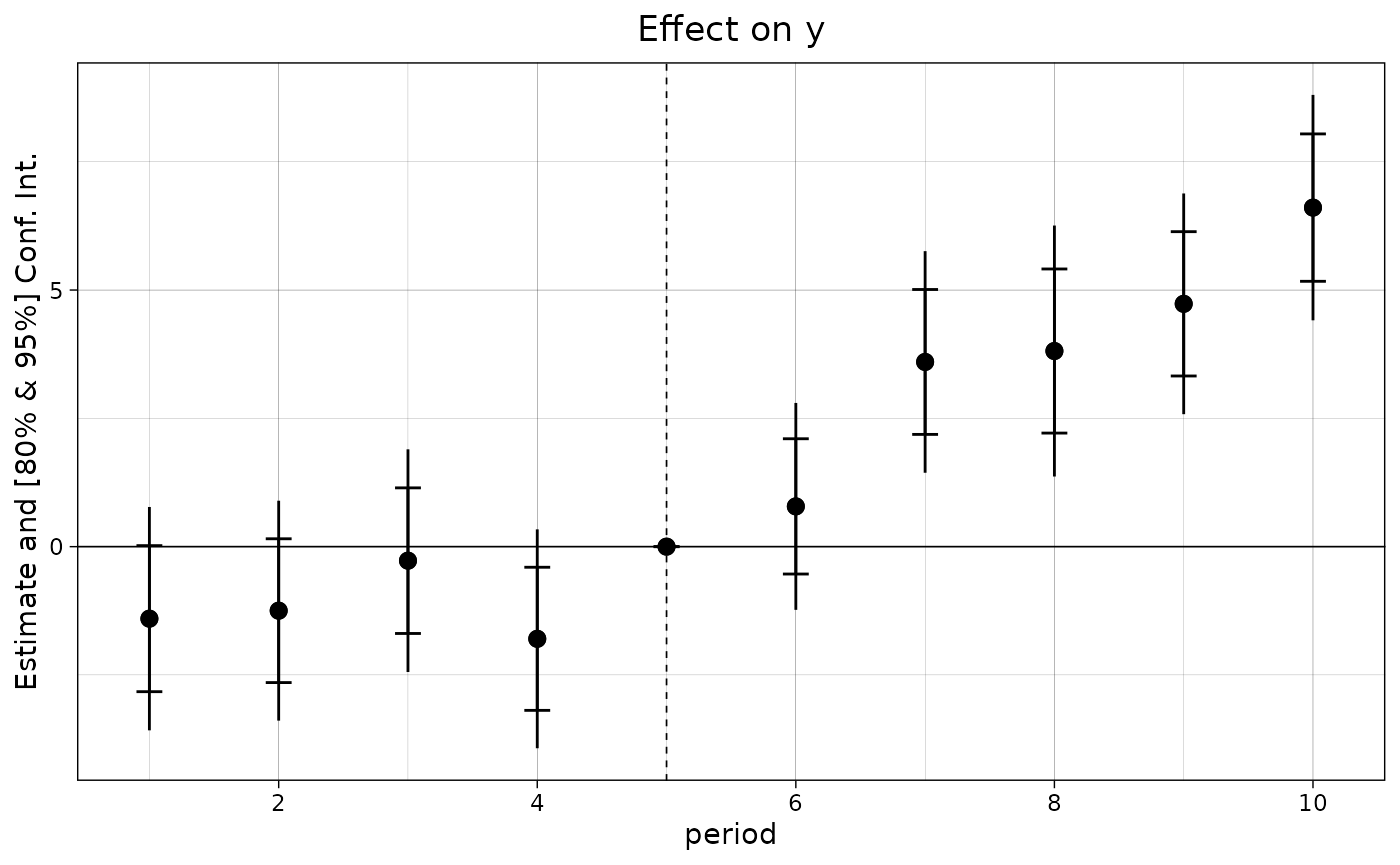
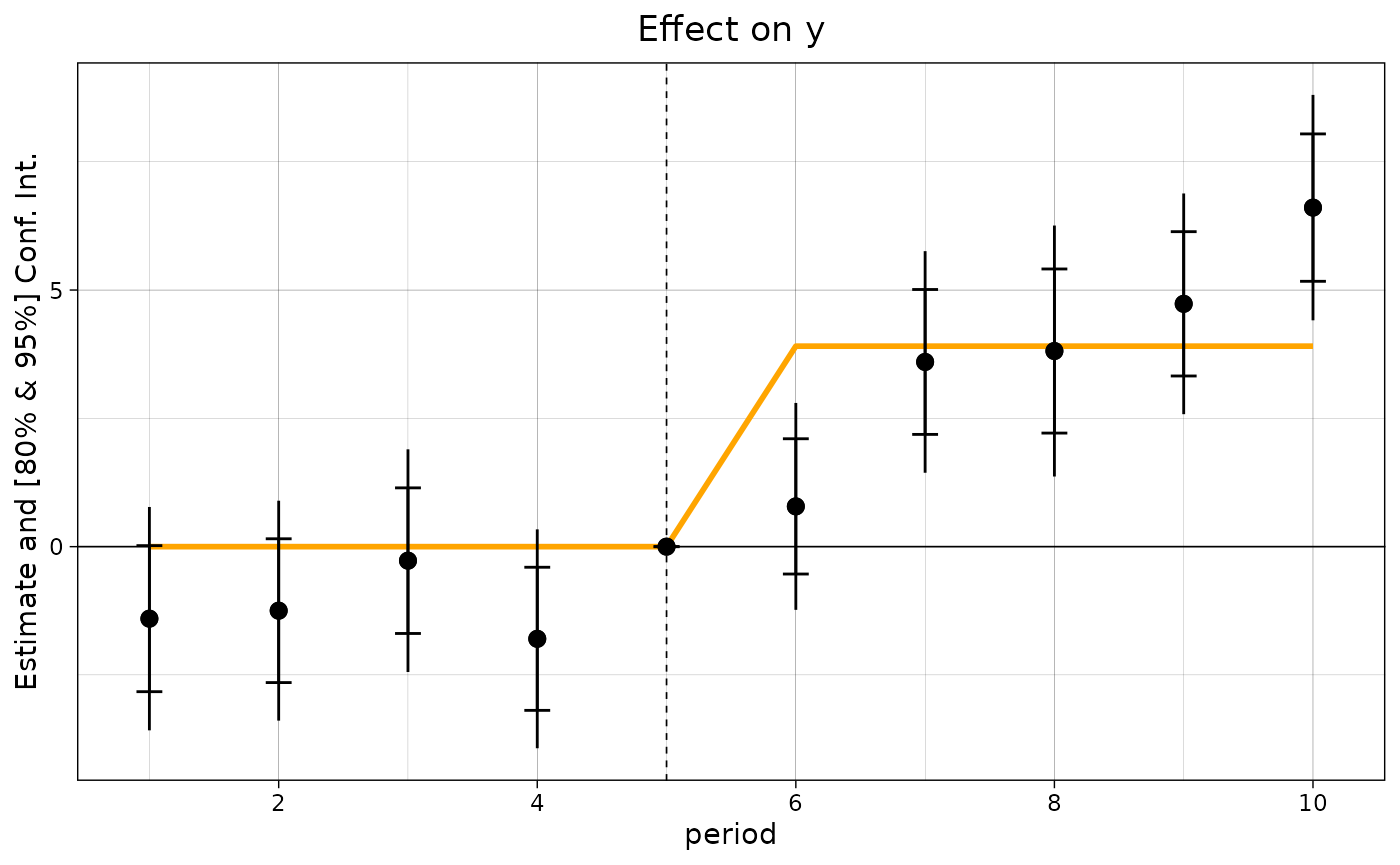
Deploying to gh-pages from @ grantmcdermott/ggiplot@c64c6105181d0d59767b65c5c7b24a04a8f7cb65 🚀

diff --git a/articles/ggiplot.html b/articles/ggiplot.html
@@ -158,7 +158,7 @@ post-treatment effect.</p>
 <div class="sourceCode" id="cb12"><pre class="downlit sourceCode r">
 <code class="sourceCode R"><span><span class="fu"><a href="../reference/ggiplot.html">ggiplot</a></span><span class="op">(</span></span>
 <span>    <span class="va">est_did</span>, ci_level <span class="op">=</span> <span class="fu"><a href="https://rdrr.io/r/base/c.html" class="external-link">c</a></span><span class="op">(</span><span class="fl">.8</span>, <span class="fl">.95</span><span class="op">)</span>,</span>
-<span>    r_eff <span class="op">=</span> <span class="st">"post"</span>, aggr_eff.par <span class="op">=</span> <span class="fu"><a href="https://rdrr.io/r/base/list.html" class="external-link">list</a></span><span class="op">(</span>col <span class="op">=</span> <span class="st">"orange"</span><span class="op">)</span> <span class="co"># default col is grey</span></span>
+<span>    aggr_eff <span class="op">=</span> <span class="st">"post"</span>, aggr_eff.par <span class="op">=</span> <span class="fu"><a href="https://rdrr.io/r/base/list.html" class="external-link">list</a></span><span class="op">(</span>col <span class="op">=</span> <span class="st">"orange"</span><span class="op">)</span> <span class="co"># default col is grey</span></span>
 <span>    <span class="op">)</span></span></code></pre></div>
 <p><img src="ggiplot_files/figure-html/est_did_aggr_eff-1.png" width="700"></p>
 </div>
